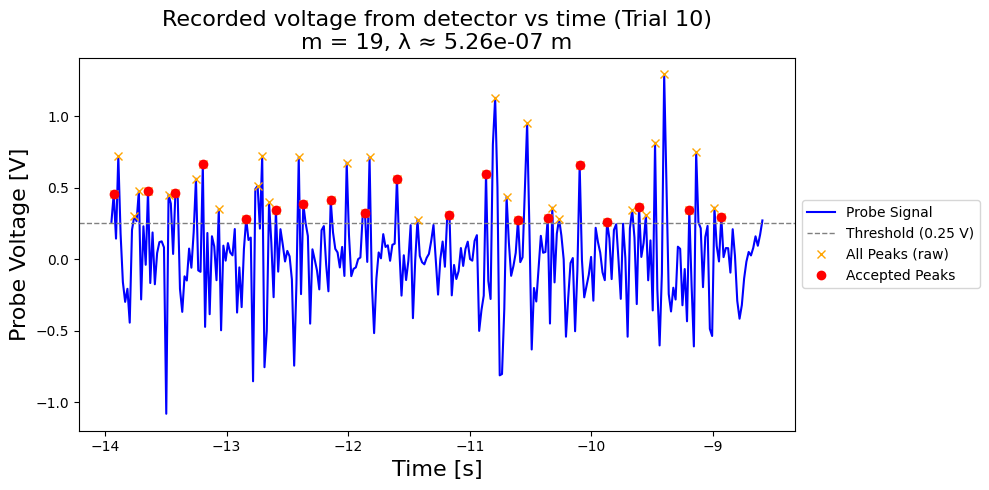
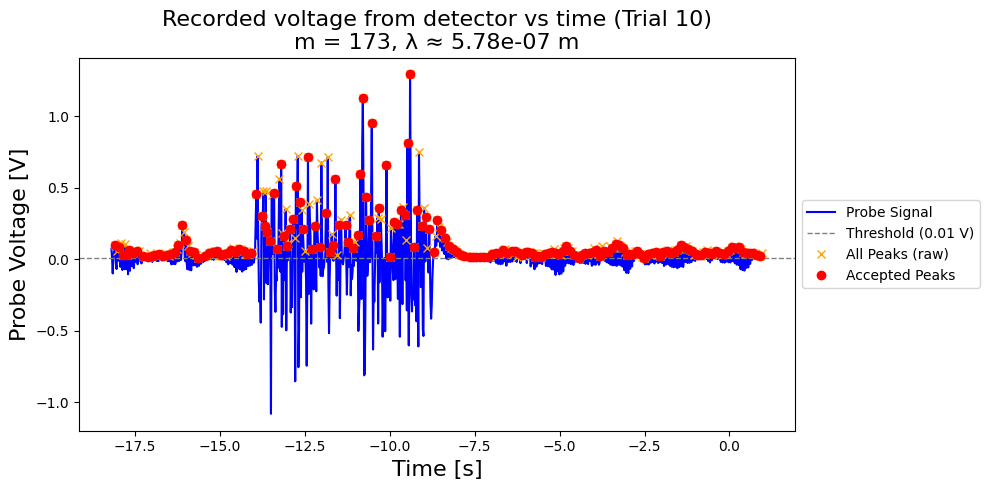
fixed mistake

diff --git a/peakcounter_part2.py b/peakcounter_part2.py
@@ -4,8 +4,8 @@ from scipy.signal import find_peaks
 import os
 
 # Path difference
-d = 5e-6
-threshold = 0.25  # unified threshold (region + peak detection)
+d = 5e-5
+threshold = 0.01 # unified threshold (region + peak detection)
 
 # Store results
 peak_counts = []   # valid trials
@@ -15,46 +15,31 @@ trial_results = [] # all trials (including skipped)
 out_dir = "results"
 os.makedirs(out_dir, exist_ok=True)
 
-# ---------------- Loop over Part 2 files ----------------
-trial_results = []
-
+# Loop over 10 files
 for i in range(1, 11):
     filename = f"part2_data_{i}.csv"
-
     if not os.path.exists(filename):
         print(f"Warning: {filename} not found, skipping.")
         trial_results.append((i, None))
         continue
 
-    # Load CSV (ignore '%' comment lines)
+    # ---------------- 1) Load CSV (ignore comment lines) ----------------
     all_data = []
     with open(filename, "r") as f:
         for line in f:
-            s = line.strip()
-            if not s or s.startswith("%"):
-                continue
-            parts = s.split(",")
-            try:
-                values = [float(x) for x in parts]
-            except ValueError:
-                continue
-            if len(values) >= 2:
-                all_data.append(values[:2])
+            if not line.startswith("%") and line.strip():
+                parts = line.strip().split(",")
+                try:
+                    values = [float(x) for x in parts]
+                    all_data.append(values)
+                except ValueError:
+                    continue
 
-    if not all_data:
-        print(f"{filename}: no valid numeric data, skipping.")
-        trial_results.append((i, None))
-        continue
-
-    data = np.array(all_data, dtype=float)
+    data = np.array(all_data)
     if data.shape[1] < 2:
         print(f"{filename} does not have at least two columns, skipping.")
         trial_results.append((i, None))
         continue
-
-    #If we reach here, we’ve successfully loaded trial i
-    trial_results.append((i, data))
-
 
     # Extract time and probe signal
     t = data[:, 0]
@@ -77,7 +62,7 @@ for i in range(1, 11):
 
     # ---------------- 4) Remove peaks too close together ----------------
     total_time = t[-1] - t[0]
-    min_sep = 0.04 * total_time   # 4% of duration
+    min_sep = 0.003 * total_time   # 0.3% of duration
 
     filtered_peaks = []
     last_time = -np.inf
@@ -157,7 +142,7 @@ if peak_counts:
     wavelength_mean = 2 * d / avg_peaks
 
     # Error propagation: λ = 2d/m
-    d_error = 5e-7
+    d_error = 1e-7
     m_avg = avg_peaks
     sigma_m = stderr_peaks
     stderr_wavelength = np.sqrt(
